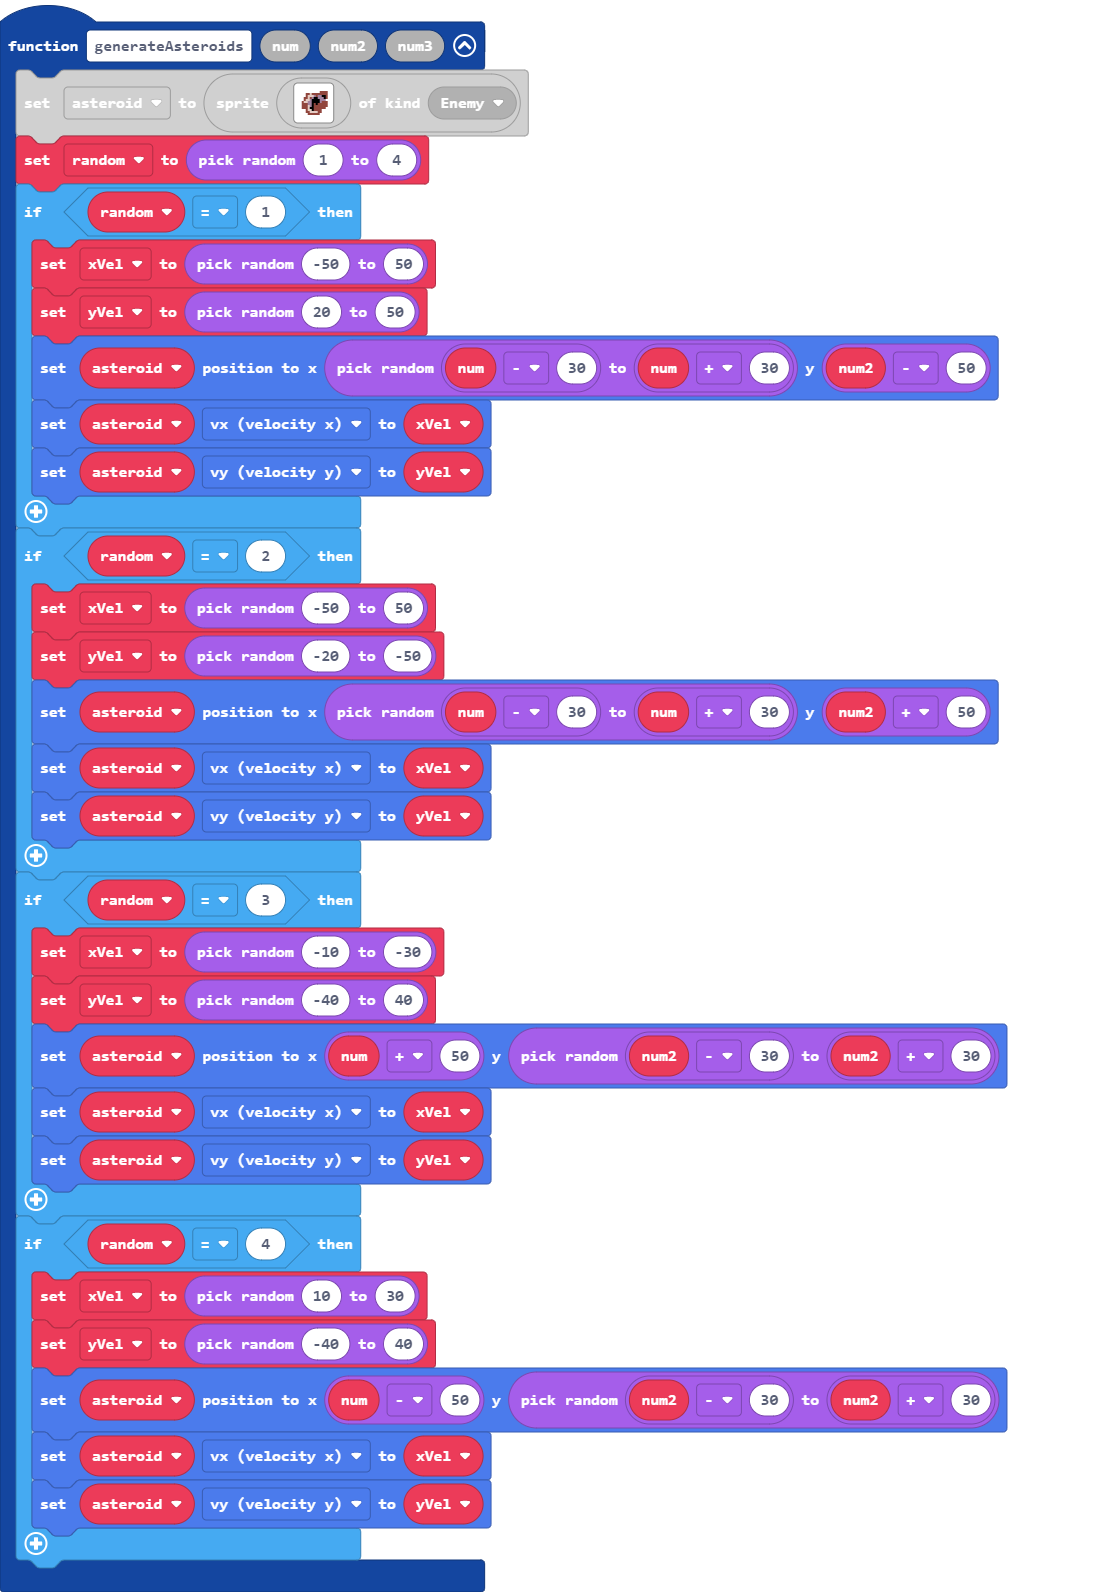
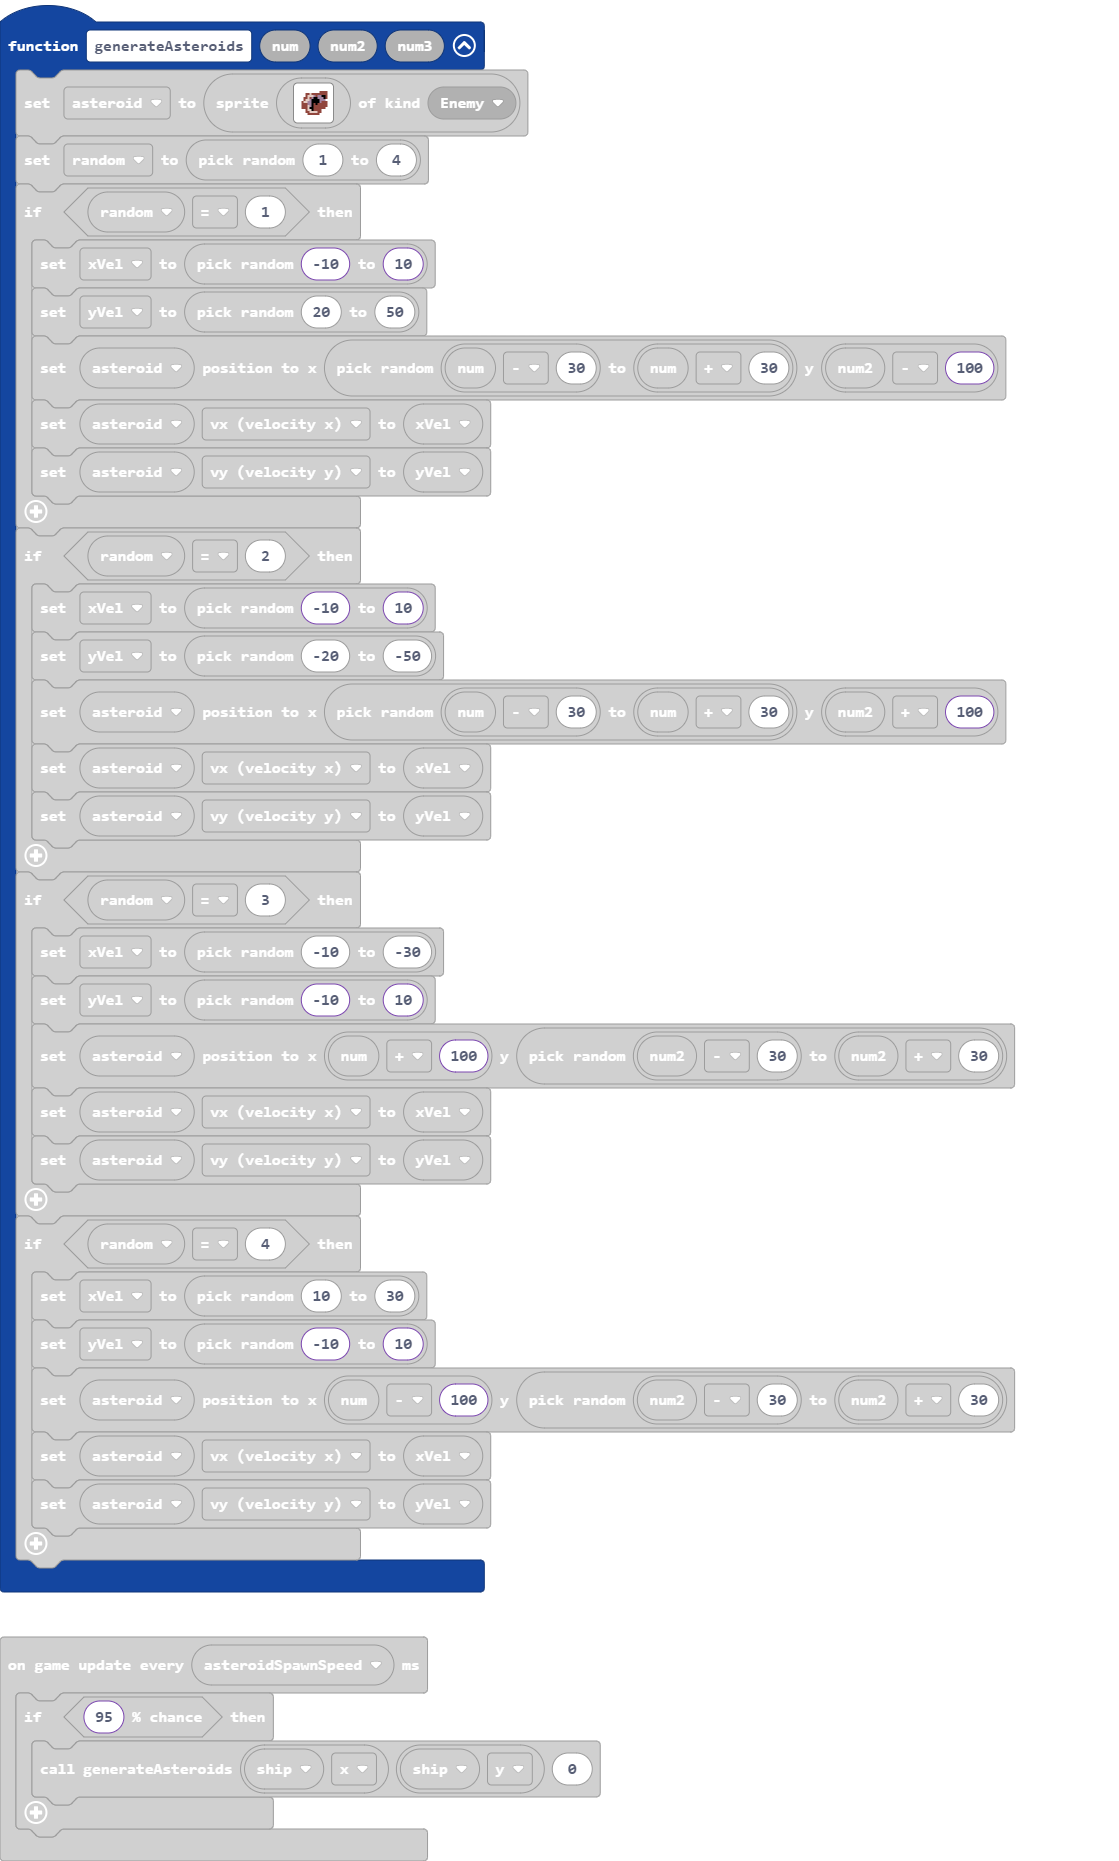
Update main.blocks, main.ts

diff --git a/main.ts b/main.ts
@@ -34,30 +34,30 @@ function generateAsteroids (num: number, num2: number, num3: number) {
         `, SpriteKind.Enemy)
     random = randint(1, 4)
     if (random == 1) {
-        xVel = randint(-50, 50)
+        xVel = randint(-10, 10)
         yVel = randint(20, 50)
-        asteroid.setPosition(randint(num - 30, num + 30), num2 - 50)
+        asteroid.setPosition(randint(num - 30, num + 30), num2 - 100)
         asteroid.vx = xVel
         asteroid.vy = yVel
     }
     if (random == 2) {
-        xVel = randint(-50, 50)
+        xVel = randint(-10, 10)
         yVel = randint(-20, -50)
-        asteroid.setPosition(randint(num - 30, num + 30), num2 + 50)
+        asteroid.setPosition(randint(num - 30, num + 30), num2 + 100)
         asteroid.vx = xVel
         asteroid.vy = yVel
     }
     if (random == 3) {
         xVel = randint(-10, -30)
-        yVel = randint(-40, 40)
-        asteroid.setPosition(num + 50, randint(num2 - 30, num2 + 30))
+        yVel = randint(-10, 10)
+        asteroid.setPosition(num + 100, randint(num2 - 30, num2 + 30))
         asteroid.vx = xVel
         asteroid.vy = yVel
     }
     if (random == 4) {
         xVel = randint(10, 30)
-        yVel = randint(-40, 40)
-        asteroid.setPosition(num - 50, randint(num2 - 30, num2 + 30))
+        yVel = randint(-10, 10)
+        asteroid.setPosition(num - 100, randint(num2 - 30, num2 + 30))
         asteroid.vx = xVel
         asteroid.vy = yVel
     }
@@ -247,7 +247,7 @@ let blackHole = sprites.create(img`
     `, SpriteKind.BlackHole)
 let asteroidSpawnSpeed = 1000
 game.onUpdateInterval(asteroidSpawnSpeed, function () {
-    if (Math.percentChance(80)) {
+    if (Math.percentChance(95)) {
         generateAsteroids(ship.x, ship.y, 0)
     }
 })
